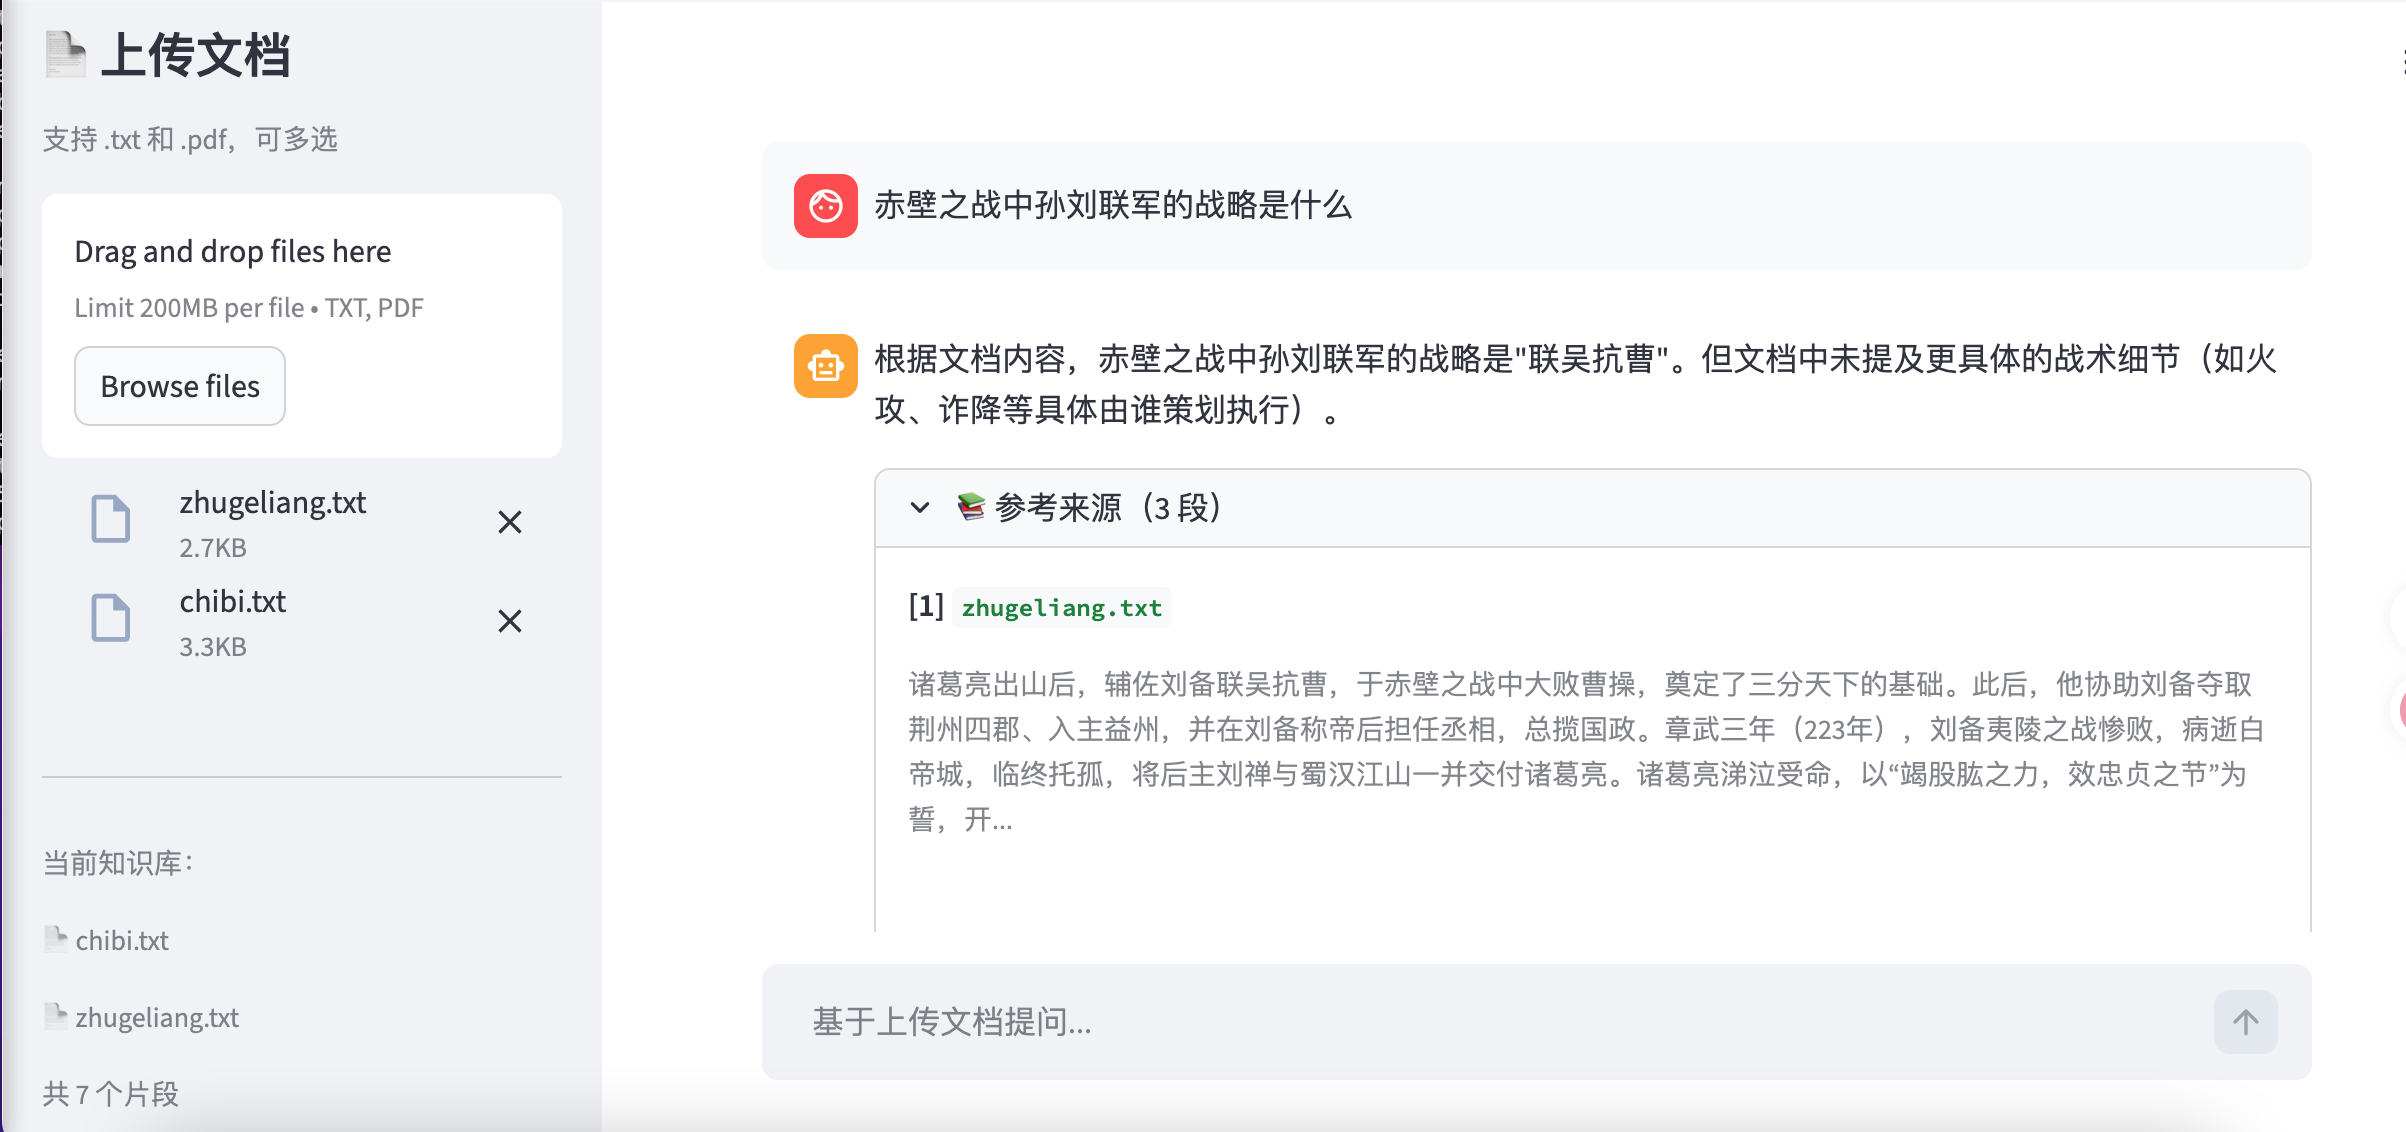
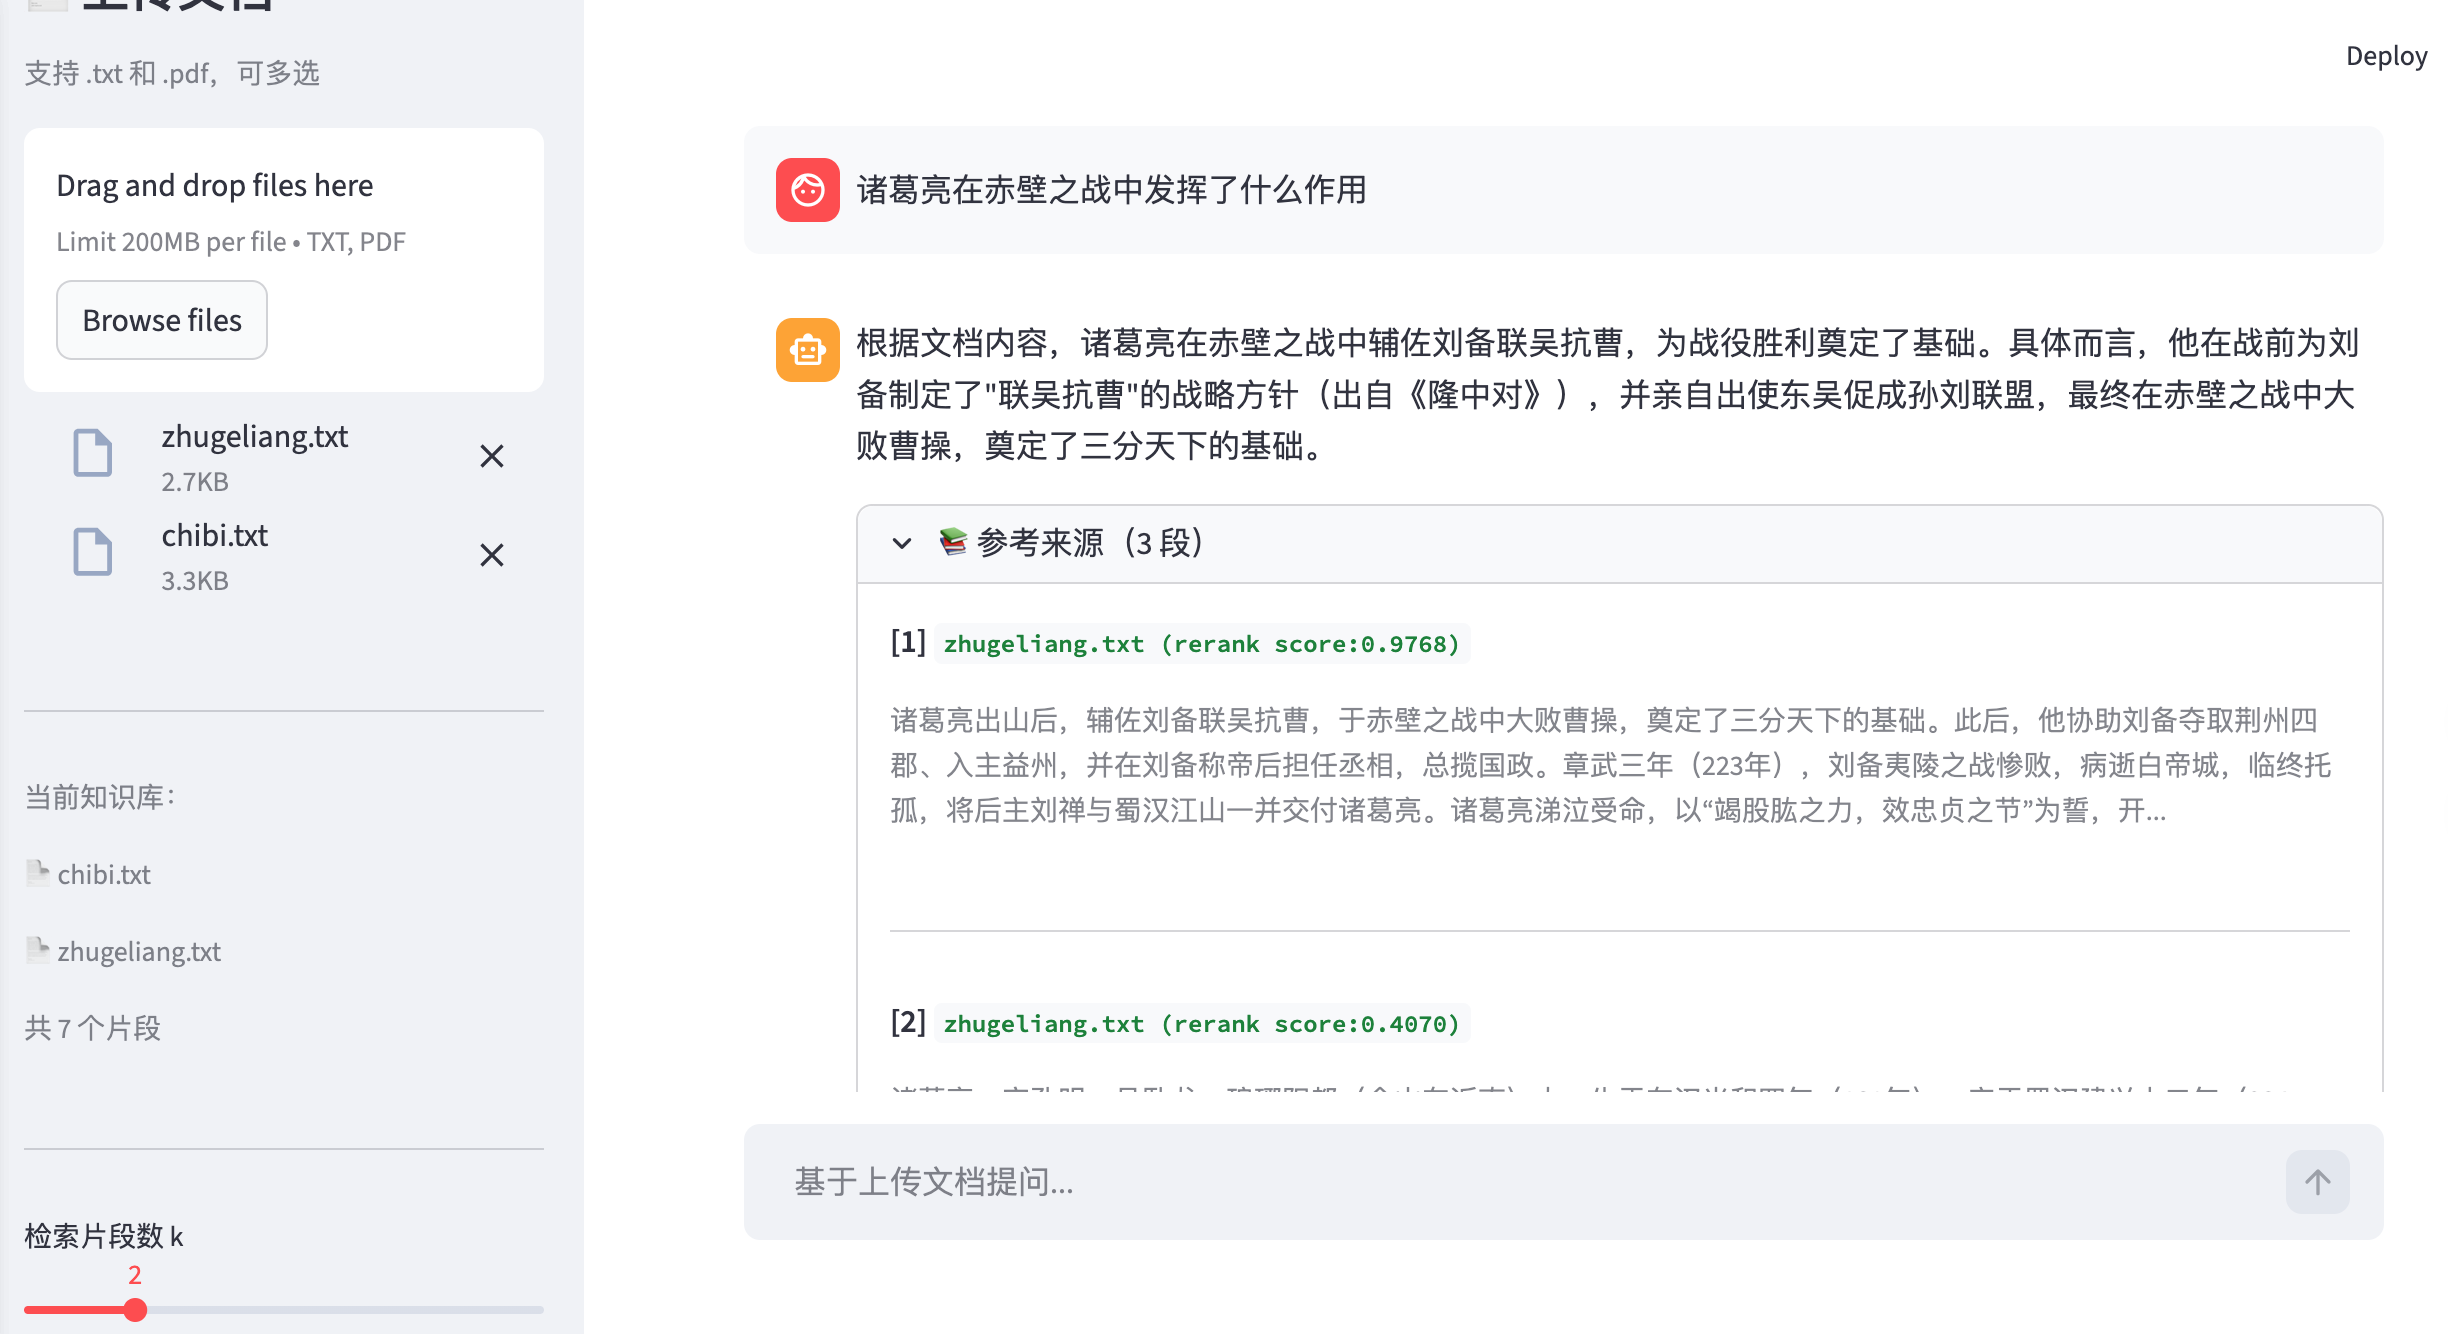
rerank评分

diff --git a/app.py b/app.py
@@ -1,5 +1,6 @@
 import os
 import io
+import requests
 import streamlit as st
 from langchain_core.documents import Document
 from langchain_text_splitters import RecursiveCharacterTextSplitter
@@ -99,9 +100,32 @@ def hybrid_retrieve(question: str, vectorstore, all_chunks: list, k: int = 3) ->
         key = doc.page_content[:80]
         scores[key]  = scores.get(key, 0) + BM25_W / (rank + 60)
         doc_map[key] = doc
-
     sorted_keys = sorted(scores, key=lambda x: scores[x], reverse=True)
-    return [doc_map[key] for key in sorted_keys[:k]]
+    mixed_docs = [doc_map[key] for key in sorted_keys[:k]]
+    reranked_docs = rerank_docs(question, mixed_docs, top_n=k)
+    return reranked_docs
+
+def rerank_docs(query: str, docs: list, top_n=3):
+    """
+    对文档列表进行 reranking，返回前 top_n 条。
+    每个文档的 metadata 中会添加 rerank_score 字段
+    """
+    if not docs:
+        return docs
+    resp = requests.post(
+        "https://api.siliconflow.cn/v1/rerank",
+        headers={"Authorization": f"Bearer {SILICONFLOW_KEY}",
+                 "Content-Type": "application/json"},
+        json={"model": "BAAI/bge-reranker-v2-m3", "query": query,
+             "documents": [d.page_content for d in docs],
+             "top_n": top_n, "return_documents": True}
+    )
+    reranked = []
+    for item in resp.json().get("results", []):
+        doc = docs[item["index"]]
+        doc.metadata["rerank_score"] = round(item["relevance_score"], 4)
+        reranked.append(doc)
+    return reranked
 
 # ── RAG 问答 ────────────────────────────────────────
 RAG_PROMPT = """你是文档问答助手。请严格基于以下文档内容回答问题。
@@ -218,7 +242,8 @@ for msg in st.session_state.messages:
             with st.expander(f'📚 参考来源（{len(sources)} 段）'):
                 for i, doc in enumerate(sources, 1):
                     src = doc.metadata.get('source', '未知')
-                    st.markdown(f'**[{i}] `{src}`**')
+                    rerank_score = doc.metadata.get('rerank_score', 0)
+                    st.markdown(f'**[{i}] `{src} (rerank score:{rerank_score:.4f})`**')
                     st.caption(doc.page_content[:150] + '...')
                     if i < len(sources):
                         st.divider()
@@ -246,7 +271,8 @@ if prompt := st.chat_input('基于上传文档提问...'):
             with st.expander(f'📚 参考来源（{len(sources)} 段）'):
                 for i, doc in enumerate(sources, 1):
                     src = doc.metadata.get('source', '未知')
-                    st.markdown(f'**[{i}] `{src}`**')
+                    rerank_score = doc.metadata.get('rerank_score', 0)
+                    st.markdown(f'**[{i}] `{src} (rerank score:{rerank_score:.4f})`**')
                     st.caption(doc.page_content[:150] + '...')
                     if i < len(sources)-1:
                         st.divider()

diff --git a/README.md b/README.md
@@ -19,7 +19,7 @@ Python 3.11+ LangChain ChromaDB Streamlit DeepSeek V3
 
 ## 🖥 界面截图
 
-![qa](./screenshot/qa_demo.png)
+![](./screenshot/qa_demo.png)
 
 ## 🚀 本地运行
 
